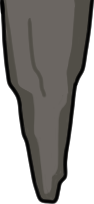
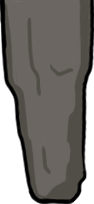
이미지/좌표 수정, 인게임 수치 조정, 잘못된 주석 수정

diff --git a/src/marchoffools/server/game/CharacterController.java b/src/marchoffools/server/game/CharacterController.java
@@ -12,10 +12,9 @@ public class CharacterController {
     public static final int STATE_IDLE = 0;
     public static final int STATE_JUMPING = 1;
     public static final int STATE_SLIDING = 2;
-    public static final int STATE_ATTACKING = 3;
 
     // ========== 점프 관련 상수 ==========
-    private static final double GRAVITY = 2500.0; // 중력 (픽셀/초²)
+    private static final double GRAVITY = 2000.0; // 중력 (픽셀/초²)
     private static final double JUMP_INITIAL_VELOCITY = 1000;
 
     // ========== 슬라이드 관련 상수 ==========
@@ -24,6 +23,8 @@ public class CharacterController {
     // ========== 캐릭터 상태 ==========
     private int charState = STATE_IDLE;
     private long stateStartTime = 0;
+    private boolean isAttacking = false;
+    private long attackEndTime = 0;
 
     // ========== 점프 상태 ==========
     private double playerY = GameConstants.CHARACTER_Y;
@@ -67,12 +68,9 @@ public class CharacterController {
             updateSlide(deltaTime);
         }
 
-        // 공격 상태 자동 복귀
-        if (charState == STATE_ATTACKING) {
-            long elapsed = now - stateStartTime;
-            if (elapsed > 300) { // 0.3초
-                charState = STATE_IDLE;
-            }
+        // 공격 상태 복귀
+        if (isAttacking && now >= attackEndTime) {
+            isAttacking = false;
         }
 
         // 무적 상태 체크
@@ -92,10 +90,9 @@ public class CharacterController {
 //        System.out.println("  JUMP_HEIGHT constant: " + GameConstants.JUMP_HEIGHT);
         System.out.println("  Calculated initial velocity: " + JUMP_INITIAL_VELOCITY);
         
-        // 이미 슬라이드 중이면 무시
+        // 이미 점프 중이면 무시
         if (charState == STATE_JUMPING) {
             System.out.println("  ❌ Already jumping - ignored");
-            return;
         }
         
         // 점프 실행
@@ -226,8 +223,8 @@ public class CharacterController {
             case GameSkill.SKILL_SHOUT:
             case GameSkill.SKILL_THRUST:
             case GameSkill.SKILL_SLASH:
-                charState = STATE_ATTACKING;
-                stateStartTime = now;
+                isAttacking = true;
+                attackEndTime = now + 300;
                 System.out.println("[CharController] Attack skill activated: " + skillId);
                 break;
         }
@@ -298,6 +295,10 @@ public class CharacterController {
         return isInvincible;
     }
 
+	public boolean isAttacking() {
+	    return isAttacking;
+	}
+
     public long[] getLastSkillUsedTime() {
         return lastSkillUsedTime;
     }
@@ -324,6 +325,8 @@ public class CharacterController {
         targetY = GameConstants.CHARACTER_Y;
         isInvincible = false;
         dashEndTime = 0;
+        isAttacking = false;
+        attackEndTime = 0;
         lastSkillUsedTime = new long[6];
         skillActiveUntil = new long[6];
         

diff --git a/src/marchoffools/client/scenes/GameScene.java b/src/marchoffools/client/scenes/GameScene.java
@@ -107,6 +107,7 @@ public class GameScene extends Scene implements NetworkListener {
         createEmotionSection();
         createGameCanvas();
         createSkillUseSection();
+        
         setupKeyBindings();
         startCooldownTimer();
 
@@ -114,7 +115,6 @@ public class GameScene extends Scene implements NetworkListener {
         System.out.println("  My Name: " + myName + " [" + getRoleName(myRole) + "]");
         System.out.println("  Opponent: " + opponentName + " [" + getRoleName(opponentRole) + "]");
 
-        setFocusable(false);
     }
     
     @Override
@@ -429,6 +429,7 @@ public class GameScene extends Scene implements NetworkListener {
         addKeyListener(new KeyAdapter() {
             @Override
             public void keyPressed(KeyEvent e) {
+            	System.out.println("Key pressed: " + e.getKeyCode()); // DEBUG
                 if (myRole == ROLE_HORSE) {
                     switch (e.getKeyCode()) {
                         case KeyEvent.VK_SPACE:
@@ -472,6 +473,7 @@ public class GameScene extends Scene implements NetworkListener {
         });
 
         setFocusable(true);
+        setFocusTraversalKeysEnabled(false);
         requestFocus();
     }
     
@@ -518,7 +520,7 @@ public class GameScene extends Scene implements NetworkListener {
 
         GameInputMessage msg = new GameInputMessage(
             nm.getPlayerId(),
-            GameInputMessage.USE_ITEM,
+            GameInputMessage.ATTACK,
             skillId
         );
         nm.sendMessage(MessageType.GAME_INPUT, msg);
@@ -980,6 +982,7 @@ public class GameScene extends Scene implements NetworkListener {
     @Override
     public void onGameState(GameStateMessage msg) {
         SwingUtilities.invokeLater(() -> {
+        	requestFocusInWindow();
             updateScore(msg.getScore());
             updateTimer(msg.getPlayTime());
             gameCanvas.updateGameState(msg);

diff --git a/src/marchoffools/common/message/GameInputMessage.java b/src/marchoffools/common/message/GameInputMessage.java
@@ -7,10 +7,10 @@ public class GameInputMessage extends Message {
     
     // ========== 입력 타입 상수 ==========
     public static final int INPUT_NONE = 0;
-    public static final int JUMP = 1;           // 점프
-    public static final int SLIDE = 2;          // 슬라이드
-    public static final int USE_ITEM = 3;       // 스킬 사용
-    public static final int EMOTION = 4;        // 감정 표현
+    public static final int JUMP = 1;		// 점프
+    public static final int SLIDE = 2;		// 슬라이드
+    public static final int ATTACK = 3;		// 스킬 사용
+    public static final int EMOTION = 4;	// 감정 표현
     
     // ========== 감정 타입 상수 ==========
     public static final int EMOTION_HAPPY = 0;

diff --git a/src/marchoffools/server/game/TrackController.java b/src/marchoffools/server/game/TrackController.java
@@ -13,14 +13,14 @@ import marchoffools.common.model.GameSkill;
  */
 public class TrackController {
 
-    private static final double SCROLL_SPEED = 400.0; // 초당 픽셀
+    private static final double SCROLL_SPEED = 500.0; // 초당 픽셀
 
     private Room room;
     private CharacterController charController;
     private List<ObstacleData> obstacles;
     
     private double distance = 0.0;
-    private double scrollSpeed = SCROLL_SPEED;
+    private double scrollSpeed = SCROLL_SPEED; // TODO: 시간 기반 배속 구현...
     private int score = 0;
     private boolean gameOver = false;
     

diff --git a/src/marchoffools/common/model/GameConstants.java b/src/marchoffools/common/model/GameConstants.java
@@ -7,7 +7,7 @@ public class GameConstants {
     public static final int GAME_HEIGHT = 768;
     
     // ========== 기준 좌표 ==========
-    public static final int GROUND_Y = 600;
+    public static final int GROUND_Y = 650;
 //    public static final double JUMP_HEIGHT = 150.0; // 점프 시 최대 높이 증가치
     public static final double SLIDE_HEIGHT = 50.0; // 슬라이드 시 높이 감소치
     

diff --git a/src/marchoffools/server/network/ClientHandler.java b/src/marchoffools/server/network/ClientHandler.java
@@ -579,7 +579,7 @@ public class ClientHandler extends Thread {
                 System.out.println("✔ Slide " + (isSliding ? "ON" : "OFF") + ": " + playerName);
                 break;
                 
-            case GameInputMessage.USE_ITEM:
+            case GameInputMessage.ATTACK:
                 // 스킬 처리
                 int skillId = msg.getValue();
                 
